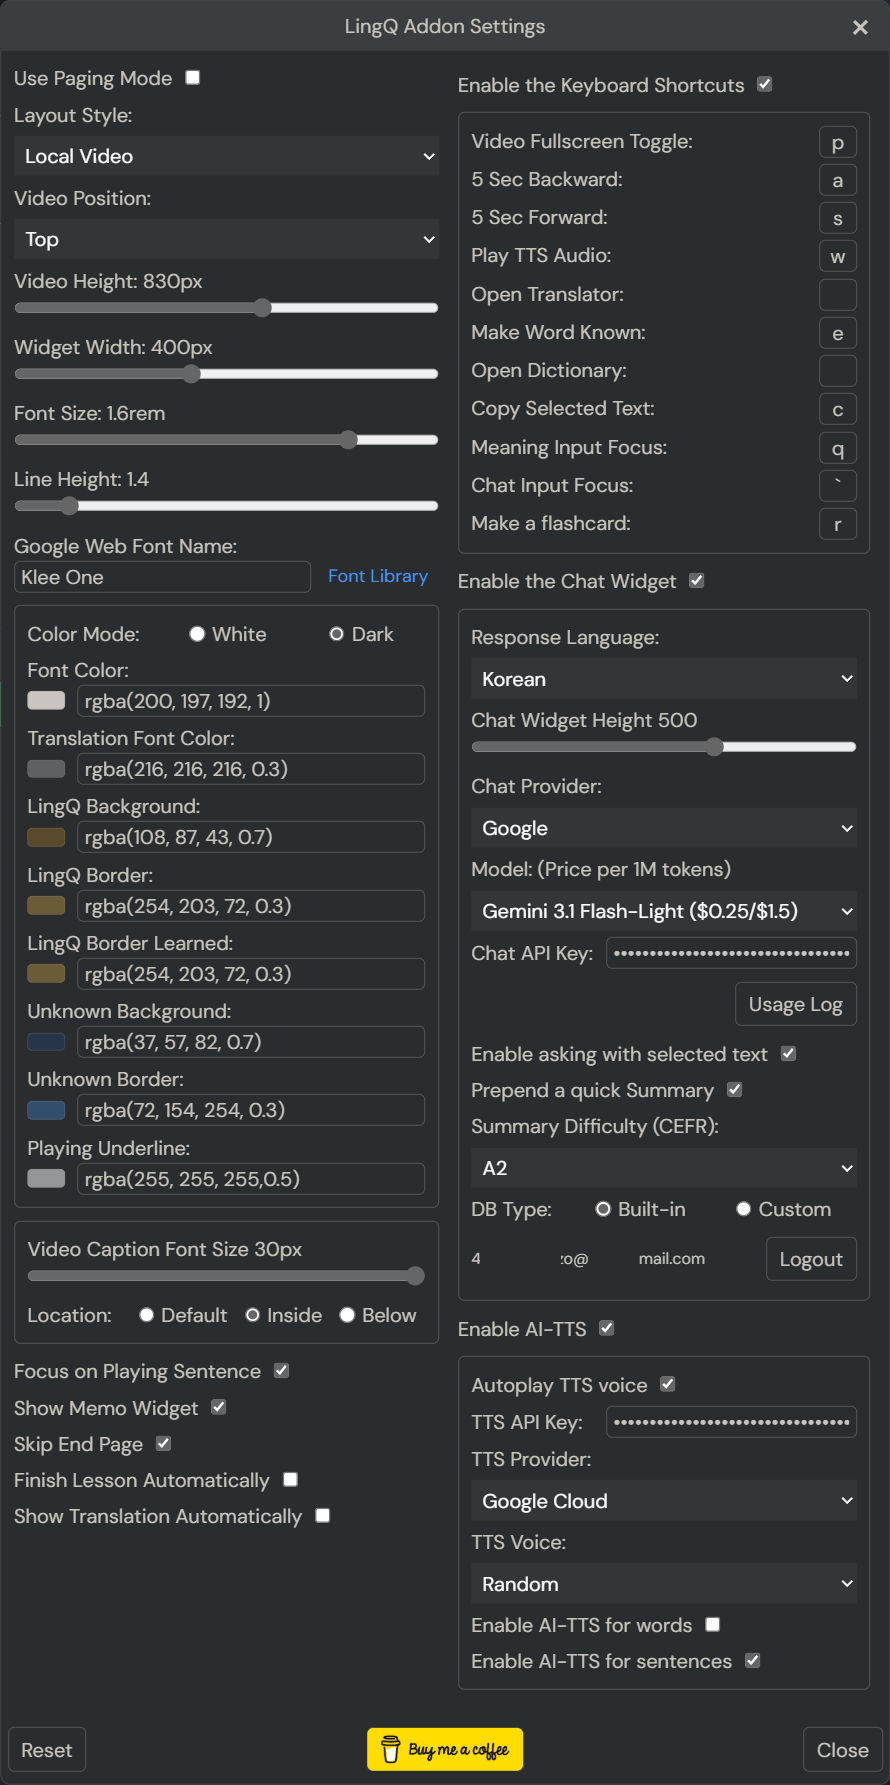
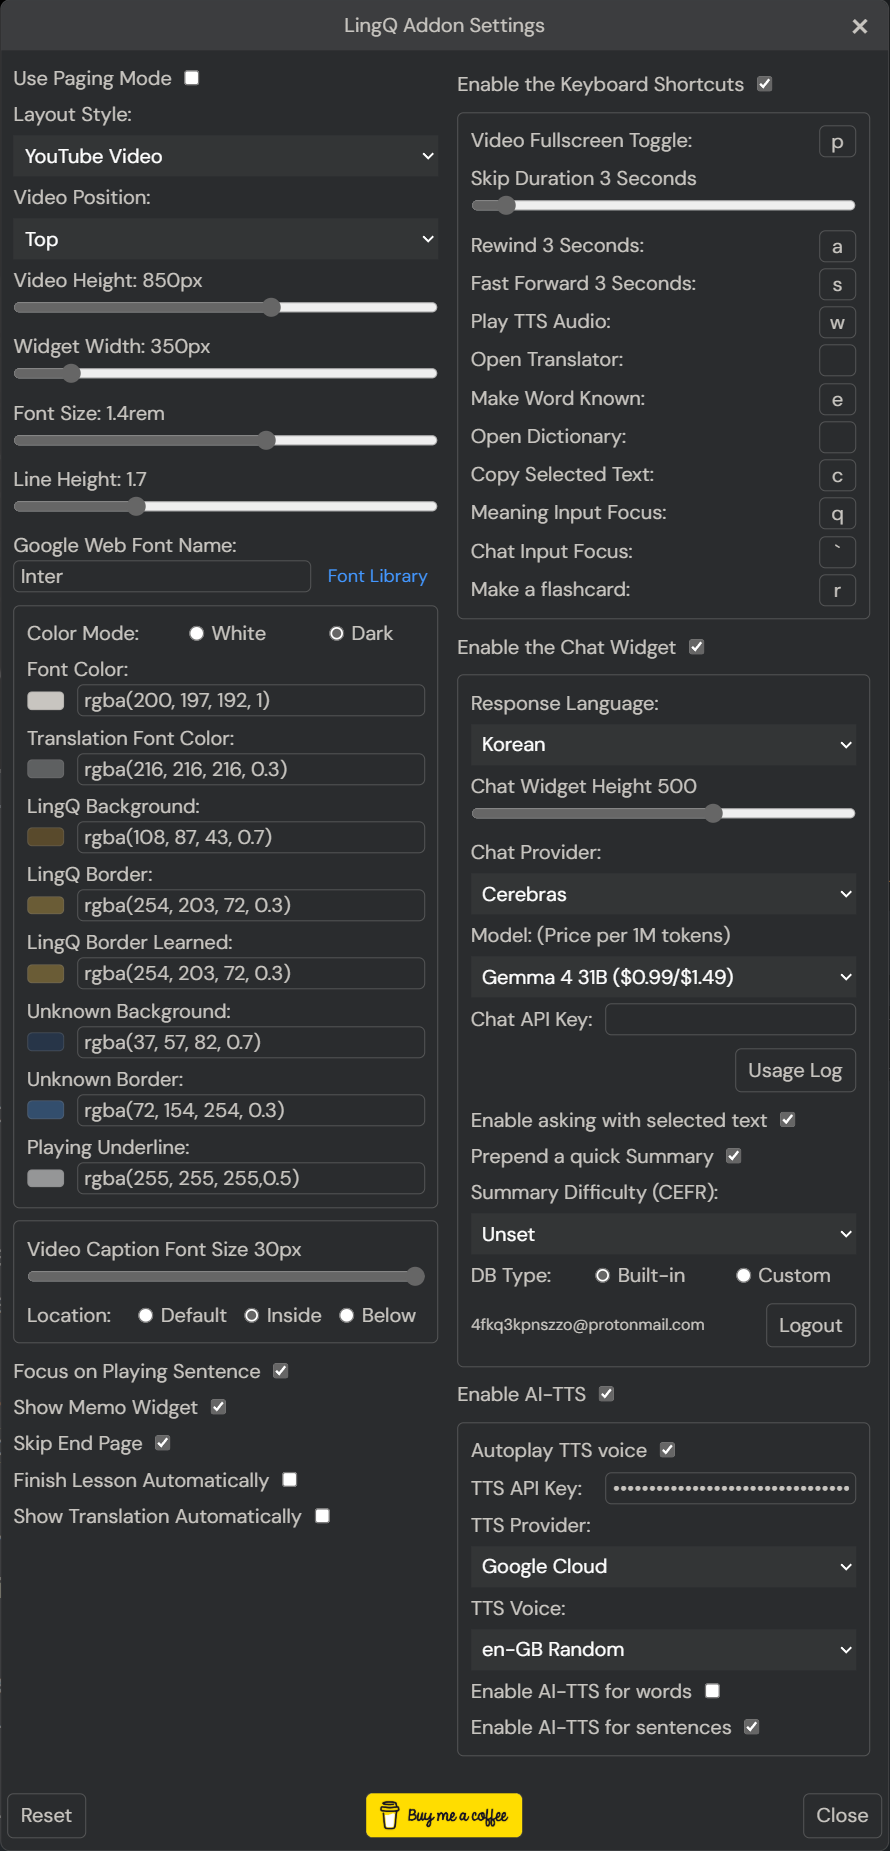
Add customizable playback skip duration and volume controls

diff --git a/lingq_add-on.js b/lingq_add-on.js
@@ -4,7 +4,7 @@
 // @match        https://www.lingq.com/*
 // @match        https://www.youtube-nocookie.com/*
 // @match        https://www.youtube.com/embed/*
-// @version      15.9.1
+// @version      16.0.0
 // @grant       GM_setValue
 // @grant       GM_getValue
 // @grant       GM_xmlhttpRequest
@@ -68,6 +68,7 @@
         showMemoWidget: false,
         
         keyboardShortcut: false,
+        skipDuration: 5,
         shortcutVideoFullscreen: 'p',
         shortcutBackward5s: 'a',
         shortcutForward5s: 's',
@@ -2436,9 +2437,96 @@
     
     function setLingqVolume(vol) {
         settings.lingqVolume = Math.min(Math.max(vol, 0), 1);
-        mediaInstances.forEach(media => {
-            if (media) media.volume = 1.0;
-        });
+        
+        const controllers = document.querySelector('.audio-player--controllers');
+        const isYoutube = controllers?.querySelector('.controller-item--speed') || document.querySelector('iframe[src*="youtube"]');
+        
+        if (isYoutube) {
+            const youtubeIframe = document.querySelector('.modal-container iframe, #sentence-video-player-portal iframe, iframe[src*="youtube"]');
+            if (youtubeIframe && youtubeIframe.contentWindow) {
+                const volumePercent = Math.round(settings.lingqVolume * 100);
+                youtubeIframe.contentWindow.postMessage(JSON.stringify({
+                    event: "command",
+                    func: "setVolume",
+                    args: [volumePercent]
+                }), "*");
+                youtubeIframe.contentWindow.postMessage(JSON.stringify({
+                    event: "command",
+                    func: volumePercent === 0 ? "mute" : "unMute"
+                }), "*");
+            }
+        } else {
+            mediaInstances.forEach(media => {
+                if (media) media.volume = 1.0;
+            });
+        }
+    }
+    
+    function skipPlayback(deltaSeconds) {
+        const sliderHandle = document.querySelector('.audio-player--progress .rc-slider-handle');
+        const currentTime = sliderHandle ? parseFloat(sliderHandle.getAttribute("aria-valuenow")) : 0;
+        const targetTime = Math.max(0, currentTime + deltaSeconds);
+
+        const controllers = document.querySelector('.audio-player--controllers');
+        const isYoutube = controllers?.querySelector('.controller-item--speed') || document.querySelector('iframe[src*="youtube"]');
+        
+        if (isYoutube) {
+            const youtubeIframe = document.querySelector('.modal-container iframe, #sentence-video-player-portal iframe, iframe[src*="youtube"]');
+            if (youtubeIframe && youtubeIframe.contentWindow) {
+                youtubeIframe.contentWindow.postMessage(JSON.stringify({
+                    event: "command",
+                    func: "seekTo",
+                    args: [targetTime, true]
+                }), "*");
+            }
+            return;
+        }
+
+        if (typeof mediaInstances !== "undefined" && mediaInstances.size > 0) {
+            mediaInstances.forEach((media) => {
+                if (media && !isNaN(media.duration)) {
+                    media.currentTime = Math.min(media.duration, targetTime);
+                }
+            });
+        } else {
+            const audio = document.querySelector('audio');
+            if (audio) audio.currentTime = targetTime;
+        }
+    }
+    
+    function updateSkipButtonsUI() {
+        const controllers = document.querySelector('.audio-player--controllers');
+        if (!controllers) return;
+
+        const duration = settings.skipDuration || 5;
+
+        const backwardBtn = controllers.querySelector('.controller-item--backward') || controllers.querySelector('.svg-icon--backward')?.closest('a');
+        if (backwardBtn) {
+            const backwardContainer = backwardBtn.parentElement;
+            if (backwardContainer) {
+                backwardContainer.setAttribute('data-original-title', `Rewind ${duration} seconds`);
+            }
+            const backwardText = backwardBtn.querySelector('text.is-text') || backwardBtn.querySelector('text');
+            if (backwardText) {
+                backwardText.textContent = duration;
+                backwardText.setAttribute('text-anchor', 'middle');
+                backwardText.setAttribute('transform', 'matrix(1 0 0 1 16 23.5457)');
+            }
+        }
+
+        const forwardBtn = controllers.querySelector('.controller-item--forward') || controllers.querySelector('.svg-icon--forward')?.closest('a');
+        if (forwardBtn) {
+            const forwardContainer = forwardBtn.parentElement;
+            if (forwardContainer) {
+                forwardContainer.setAttribute('data-original-title', `Fast forward ${duration} seconds`);
+            }
+            const forwardText = forwardBtn.querySelector('text.is-text') || forwardBtn.querySelector('text');
+            if (forwardText) {
+                forwardText.textContent = duration;
+                forwardText.setAttribute('text-anchor', 'middle');
+                forwardText.setAttribute('transform', 'matrix(1 0 0 1 16 23.5457)');
+            }
+        }
     }
     
     function globalSetup() {
@@ -2797,8 +2885,9 @@
             });
             
             addShortcutInput(shortcutSection, "shortcutVideoFullscreenInput", "Video Fullscreen Toggle:", settings.shortcutVideoFullscreen);
-            addShortcutInput(shortcutSection, "shortcutBackward5sInput", "5 Sec Backward:", settings.shortcutBackward5s);
-            addShortcutInput(shortcutSection, "shortcutForward5sInput", "5 Sec Forward:", settings.shortcutForward5s);
+            addSlider(shortcutSection, "skipDurationSlider", "Skip Duration", "skipDurationValue", settings.skipDuration, " Seconds", 1, 30, 1);
+            addShortcutInput(shortcutSection, "shortcutBackward5sInput", `Rewind ${settings.skipDuration} Seconds:`, settings.shortcutBackward5s);
+            addShortcutInput(shortcutSection, "shortcutForward5sInput", `Fast Forward ${settings.skipDuration} Seconds:`, settings.shortcutForward5s);
             addShortcutInput(shortcutSection, "shortcutTTSPlayInput", "Play TTS Audio:", settings.shortcutTTSPlay);
             addShortcutInput(shortcutSection, "shortcutTranslatorOpenInput", "Open Translator:", settings.shortcutTranslator);
             addShortcutInput(shortcutSection, "shortcutMakeKnownInput", "Make Word Known:", settings.shortcutMakeKnown);
@@ -3852,6 +3941,23 @@
                 settings.keyboardShortcut = checked;
             });
             
+            const skipDurationSlider = document.getElementById("skipDurationSlider");
+            const skipDurationValue = document.getElementById("skipDurationValue");
+            if (skipDurationSlider) {
+                skipDurationSlider.addEventListener("input", function () {
+                    const val = parseFloat(this.value);
+                    if (skipDurationValue) skipDurationValue.textContent = val;
+                    settings.skipDuration = val;
+                    
+                    const backwardLabel = document.querySelector('label[for="shortcutBackward5sInput"]');
+                    if (backwardLabel) backwardLabel.textContent = `Rewind ${val}s:`;
+                    const forwardLabel = document.querySelector('label[for="shortcutForward5sInput"]');
+                    if (forwardLabel) forwardLabel.textContent = `Fast Forward ${val}s:`;
+                    
+                    updateSkipButtonsUI();
+                });
+            }
+            
             setupShortcutInput("shortcutVideoFullscreenInput", "shortcutVideoFullscreen");
             setupShortcutInput("shortcutBackward5sInput", "shortcutBackward5s");
             setupShortcutInput("shortcutForward5sInput", "shortcutForward5s");
@@ -4164,6 +4270,16 @@
                 
                 document.getElementById("keyboardShortcutCheckbox").value = defaults.keyboardShortcut;
                 document.getElementById("shortcutVideoFullscreenInput").value = defaults.shortcutVideoFullscreen;
+                const skipSlider = document.getElementById("skipDurationSlider");
+                if (skipSlider) {
+                    skipSlider.value = defaults.skipDuration;
+                    const skipVal = document.getElementById("skipDurationValue");
+                    if (skipVal) skipVal.textContent = defaults.skipDuration;
+                    const backwardLabel = document.querySelector('label[for="shortcutBackward5sInput"]');
+                    if (backwardLabel) backwardLabel.textContent = `Rewind ${defaults.skipDuration}s:`;
+                    const forwardLabel = document.querySelector('label[for="shortcutForward5sInput"]');
+                    if (forwardLabel) forwardLabel.textContent = `Fast Forward ${defaults.skipDuration}s:`;
+                }
                 document.getElementById("shortcutBackward5sInput").value = defaults.shortcutBackward5s;
                 document.getElementById("shortcutForward5sInput").value = defaults.shortcutForward5s;
                 document.getElementById("shortcutTTSPlayInput").value = defaults.shortcutTTSPlay;
@@ -6562,6 +6678,7 @@
                         
                         if (node.matches('.audio-player--controllers') || node.querySelector('.audio-player--controllers')) {
                             setupVolumeController();
+                            setupCustomSkipController();
                         }
                     }
                 }
@@ -6569,16 +6686,43 @@
             
             audioPlayerObserver.observe(playerContainer, {childList: true, subtree: true});
             setupVolumeController();
+            setupCustomSkipController();
         }
         
         attachAudioPlayerObserver();
         
+        function setupCustomSkipController() {
+            const controllers = document.querySelector('.audio-player--controllers');
+            if (!controllers) return;
+
+            const backwardBtn = controllers.querySelector('.controller-item--backward') || controllers.querySelector('.svg-icon--backward')?.closest('a');
+            if (backwardBtn && !backwardBtn.dataset.addonSkipHooked) {
+                backwardBtn.dataset.addonSkipHooked = "true";
+                backwardBtn.addEventListener('click', (e) => {
+                    e.preventDefault();
+                    e.stopPropagation();
+                    e.stopImmediatePropagation();
+                    skipPlayback(-(settings.skipDuration || 5));
+                }, true);
+            }
+
+            const forwardBtn = controllers.querySelector('.controller-item--forward') || controllers.querySelector('.svg-icon--forward')?.closest('a');
+            if (forwardBtn && !forwardBtn.dataset.addonSkipHooked) {
+                forwardBtn.dataset.addonSkipHooked = "true";
+                forwardBtn.addEventListener('click', (e) => {
+                    e.preventDefault();
+                    e.stopPropagation();
+                    e.stopImmediatePropagation();
+                    skipPlayback(settings.skipDuration || 5);
+                }, true);
+            }
+
+            updateSkipButtonsUI();
+        }
+        
         function setupVolumeController() {
             const controllers = document.querySelector('.audio-player--controllers');
             if (!controllers || controllers.querySelector('#addon-volume-controller')) return;
-            
-            // Skip if this is the YouTube video controller (distinguished by its specific speed button class)
-            if (controllers.querySelector('.controller-item--speed')) return;
             
             const volumeWrapper = createElement("div", {
                 id: "addon-volume-controller",
@@ -6587,7 +6731,7 @@
             
             const volumeBtn = createElement("a", {
                 className: "controller-item button is-white",
-                style: "cursor: pointer; position: relative; display: inline-flex; align-items: center; justify-content: center; gap: 2px;"
+                style: "cursor: pointer; position: relative; display: inline-flex; align-items: center; justify-content: center; gap: 1px;"
             });
             
             const iconWrapper = createElement("span", {
@@ -6595,9 +6739,9 @@
                 style: "display: flex; align-items: center; justify-content: center;"
             });
             
-            const svgMute = `<svg style="flex-shrink: 0;" width="25" height="25" class="svg-icon is-dark stroke-current fill-current" xmlns="http://www.w3.org/2000/svg" viewBox="0 0 32 32"><path fill="none" stroke="#050d18" stroke-width="2.25" stroke-linecap="round" stroke-linejoin="round" class="is-stroke" d="M12 21l-5-5H3V10h4l5-5v16z"></path><line fill="none" stroke="#050d18" stroke-width="2.25" stroke-linecap="round" stroke-linejoin="round" class="is-stroke" x1="23" y1="9" x2="17" y2="15"></line><line fill="none" stroke="#050d18" stroke-width="2.25" stroke-linecap="round" stroke-linejoin="round" class="is-stroke" x1="17" y1="9" x2="23" y2="15"></line></svg>`;
-            const svgLow = `<svg style="flex-shrink: 0;" width="25" height="25" class="svg-icon is-dark stroke-current fill-current" xmlns="http://www.w3.org/2000/svg" viewBox="0 0 32 32"><path fill="none" stroke="#050d18" stroke-width="2.25" stroke-linecap="round" stroke-linejoin="round" class="is-stroke" d="M14 21l-5-5H5V10h4l5-5v16z"></path><path fill="none" stroke="#050d18" stroke-width="2.25" stroke-linecap="round" stroke-linejoin="round" class="is-stroke" d="M19 11c1.5 1.5 1.5 3.5 0 5"></path></svg>`;
-            const svgHigh = `<svg style="flex-shrink: 0;" width="25" height="25" class="svg-icon is-dark stroke-current fill-current" xmlns="http://www.w3.org/2000/svg" viewBox="0 0 32 32"><path fill="none" stroke="#050d18" stroke-width="2.25" stroke-linecap="round" stroke-linejoin="round" class="is-stroke" d="M12 21l-5-5H3V10h4l5-5v16z"></path><path fill="none" stroke="#050d18" stroke-width="2.25" stroke-linecap="round" stroke-linejoin="round" class="is-stroke" d="M17 11c1.5 1.5 1.5 3.5 0 5"></path><path fill="none" stroke="#050d18" stroke-width="2.25" stroke-linecap="round" stroke-linejoin="round" class="is-stroke" d="M21 7c3 3 3 7 0 12"></path></svg>`;
+            const svgMute = `<svg style="flex-shrink: 0;" width="25" height="25" class="svg-icon svg-icon--volume is-dark" xmlns="http://www.w3.org/2000/svg" viewBox="0 0 32 32"><path fill="none" stroke="currentColor" stroke-width="2.25" stroke-linecap="round" stroke-linejoin="round" stroke-miterlimit="10" class="is-stroke" d="M12 21l-5-5H3V10h4l5-5v16z"></path><line fill="none" stroke="currentColor" stroke-width="2.25" stroke-linecap="round" stroke-linejoin="round" stroke-miterlimit="10" class="is-stroke" x1="22" y1="11" x2="16" y2="17"></line><line fill="none" stroke="currentColor" stroke-width="2.25" stroke-linecap="round" stroke-linejoin="round" stroke-miterlimit="10" class="is-stroke" x1="16" y1="11" x2="22" y2="17"></line></svg>`;
+            const svgLow = `<svg style="flex-shrink: 0;" width="25" height="25" class="svg-icon svg-icon--volume is-dark" xmlns="http://www.w3.org/2000/svg" viewBox="0 0 32 32"><path fill="none" stroke="currentColor" stroke-width="2.25" stroke-linecap="round" stroke-linejoin="round" stroke-miterlimit="10" class="is-stroke" d="M12 21l-5-5H3V10h4l5-5v16z"></path><path fill="none" stroke="currentColor" stroke-width="2.25" stroke-linecap="round" stroke-linejoin="round" stroke-miterlimit="10" class="is-stroke" d="M17 11c1.5 1.5 1.5 4.5 0 6"></path></svg>`;
+            const svgHigh = `<svg style="flex-shrink: 0;" width="25" height="25" class="svg-icon svg-icon--volume is-dark" xmlns="http://www.w3.org/2000/svg" viewBox="0 0 32 32"><path fill="none" stroke="currentColor" stroke-width="2.25" stroke-linecap="round" stroke-linejoin="round" stroke-miterlimit="10" class="is-stroke" d="M12 21l-5-5H3V10h4l5-5v16z"></path><path fill="none" stroke="currentColor" stroke-width="2.25" stroke-linecap="round" stroke-linejoin="round" stroke-miterlimit="10" class="is-stroke" d="M17 11c1.5 1.5 1.5 4.5 0 6"></path><path fill="none" stroke="currentColor" stroke-width="2.25" stroke-linecap="round" stroke-linejoin="round" stroke-miterlimit="10" class="is-stroke" d="M21 8c3 2.5 3 7.5 0 10"></path></svg>`;
             
             function updateIcon() {
                 const vol = settings.lingqVolume;
@@ -6608,7 +6752,7 @@
                 else if (vol <= 0.5) svgStr = svgLow;
                 else svgStr = svgHigh;
                 
-                const textHtml = `<span style="font-size: 0.75rem; font-weight: bold; margin-left: 2px; min-width: 22px; text-align: left;">${volPct}</span>`;
+                const textHtml = `<span class="addon-volume-text">${volPct}</span>`;
                 
                 iconWrapper.innerHTML = svgStr + textHtml;
                 volumeBtn.setAttribute("title", `Volume: ${volPct}%`);
@@ -6631,9 +6775,9 @@
                 e.preventDefault();
                 let vol = settings.lingqVolume;
                 if (e.deltaY < 0) {
-                    vol = Math.min(1.0, vol + 0.1);
+                    vol = Math.min(1.0, vol + 0.05);
                 } else {
-                    vol = Math.max(0.0, vol - 0.1);
+                    vol = Math.max(0.0, vol - 0.05);
                 }
                 vol = Math.round(vol * 10) / 10;
                 setLingqVolume(vol);
@@ -7599,8 +7743,33 @@
                 margin: 5px 0;
             }
 
+            .audio-player--controllers svg {
+                width: 20px !important;
+                height: 20px !important;
+            }
+
+            .audio-player--controllers .controller-item--speed svg,
+            .audio-player--controllers .svg-icon--speed2x {
+                width: 17px !important;
+                height: auto !important;
+            }
+
+            #addon-volume-controller svg {
+                width: 23px !important;
+                height: 23px !important;
+            }
+
             .audio-player--controllers span {
                 height: 25px !important;
+            }
+
+            #addon-volume-controller .addon-volume-text {
+                display: inline-flex !important;
+                align-items: center !important;
+                font-size: 0.6rem !important;
+                font-weight: 400 !important;
+                line-height: 1 !important;
+                color: inherit !important;
             }
 
             #lesson-reader > div.h-full > div[dir=ltr] > header {
@@ -8127,8 +8296,8 @@
                     }, // Make a flashcard
                     [settings.shortcutTTSPlay]: () => clickElement(".is-tts"), // Play tts audio
                     [settings.shortcutTranslator]: () => clickElement(".dictionary-resources > a:nth-last-child(1)"), // Open Translator
-                    [settings.shortcutBackward5s]: () => clickElement(".audio-player--controllers > div:nth-child(1) > a"), // 5 sec Backward
-                    [settings.shortcutForward5s]: () => clickElement(".audio-player--controllers > div:nth-child(2) > a"), // 5 sec Forward
+                    [settings.shortcutBackward5s]: () => skipPlayback(-(settings.skipDuration || 5)), // Rewind
+                    [settings.shortcutForward5s]: () => skipPlayback(settings.skipDuration || 5), // Fast Forward
                     [settings.shortcutMakeKnown]: () => document.dispatchEvent(new KeyboardEvent("keydown", {key: "k"})), // Simulate original 'k' for Make Word Known
                     [settings.shortcutDictionary]: () => clickElement(".dictionary-resources > a:nth-child(1)"), // Open Dictionary
                     [settings.shortcutCopySelected]: () => copySelectedText() // Copy selected text
@@ -11261,6 +11430,14 @@
             });
             resizeObserver.observe(player);
         }
+        
+        async function applyInitialVolume() {
+            const video = await waitForElement('video.html5-main-video', 10000);
+            if (video && typeof settings.lingqVolume === "number") {
+                video.volume = settings.lingqVolume;
+            }
+        }
+        applyInitialVolume();
         
         if (settings.relocateCaption !== "default") adjustCaptionPosition();
     }

diff --git a/GUIDE.md b/GUIDE.md
@@ -13,7 +13,7 @@ This guide is structured around the **Settings Popup** (where the majority of fe
     - [1.1 Paging Mode & Reader Flow](#11-paging-mode--reader-flow)
     - [1.2 Layout Styles](#12-layout-styles)
     - [1.3 Video Orientation & Dimensions](#13-video-orientation--dimensions)
-    - [1.4 Media Controller Volume Control](#14-media-controller-volume-control)
+    - [1.4 Media Controller: Volume Control & Playback Skip Duration](#14-media-controller-volume-control--playback-skip-duration)
     - [1.5 Local Video Player Setup & Lesson Requirements](#15-local-video-player-setup--lesson-requirements)
     - [1.6 Typography, Sizing & Memo Widget](#16-typography-sizing--memo-widget)
     - [1.7 Color Themes & Palette](#17-color-themes--palette)
@@ -46,7 +46,7 @@ This guide is structured around the **Settings Popup** (where the majority of fe
 
 # Part I: Settings & Reader Experience
 
-<img src="images/settings.png" width=700></br>
+<img src="images/settings.png" width=500></br>
 
 ---
 
@@ -76,13 +76,16 @@ Customize the reader layout based on the media format of your lesson:
 - **Sentence View Video Height**: Slider for video sizing while in LingQ's Sentence Mode.
 - **Autoplay in Sentence View**: Checkbox to toggle automatic playback when stepping through sentences in Sentence Mode.
 
-### 1.4 Media Controller Volume Control
+### 1.4 Media Controller: Volume Control & Playback Skip Duration
 
 <img src="images/volume control.png" width=400></br>
 
-The addon enhances LingQ's native audio media controller with a dedicated volume controller button:
-- **Click to Cycle Levels**: Click the volume button to cycle through preset volume levels: `0%`(Mute) → `25%` → `50%` → `75%` → `100%`.
-- **Mouse Wheel Fine Adjustment**: Hover over the volume button and scroll the mouse wheel up or down to adjust volume in smooth `10%` increments.
+The addon enhances LingQ's media controller with volume controls and customizable playback skip duration across audio, local video, and YouTube lessons:
+- **Volume Controller Button**:
+  - **Click to Cycle Levels**: Click the volume button to cycle through preset volume levels: `0%`(Mute) → `25%` → `50%` → `75%` → `100%`.
+  - **Mouse Wheel Fine Adjustment**: Hover over the button and scroll the mouse wheel up or down to adjust volume in `5%` increments.
+- **Customizable Skip Duration**:
+  - **Configurable Interval**: Set the skip duration from `1` to `30` seconds using the **Skip Duration** slider in Settings (default: `5s`).
 
 ### 1.5 Local Video Player Setup & Lesson Requirements
 
@@ -139,12 +142,13 @@ Play your own downloaded movies, anime, or video lessons directly within LingQ, 
 
 ### 2.1 Configuration & Hotkeys Table
 Check **Enable the Keyboard Shortcuts** to activate single-key navigation without touching the mouse. Each shortcut can be customized to any single character.
+- **Skip Duration**: Slider to adjust the playback jump interval (`1` to `30` seconds, default `5s`) for both hotkeys and media controller buttons.
 
 | Setting Name | Default Key | Action Description |
 | :--- | :---: | :--- |
 | **Video Fullscreen Toggle** | `p` | Toggles fullscreen on the active video player. |
-| **5 Sec Backward** | `a` | Jumps playback backward by 5 seconds. |
-| **5 Sec Forward** | `s` | Jumps playback forward by 5 seconds. |
+| **Rewind (Skip Backward)** | `a` | Jumps playback backward by the configured skip duration. |
+| **Fast Forward (Skip Forward)** | `s` | Jumps playback forward by the configured skip duration. |
 | **Play TTS Audio** | `w` | Triggers AI TTS narration for the selected word or active sentence. |
 | **Open Translator** | `e` | Opens LingQ's default external translation popup. |
 | **Make Word Known** | `d` | Instantly advances the selected word to "Known" status. |
